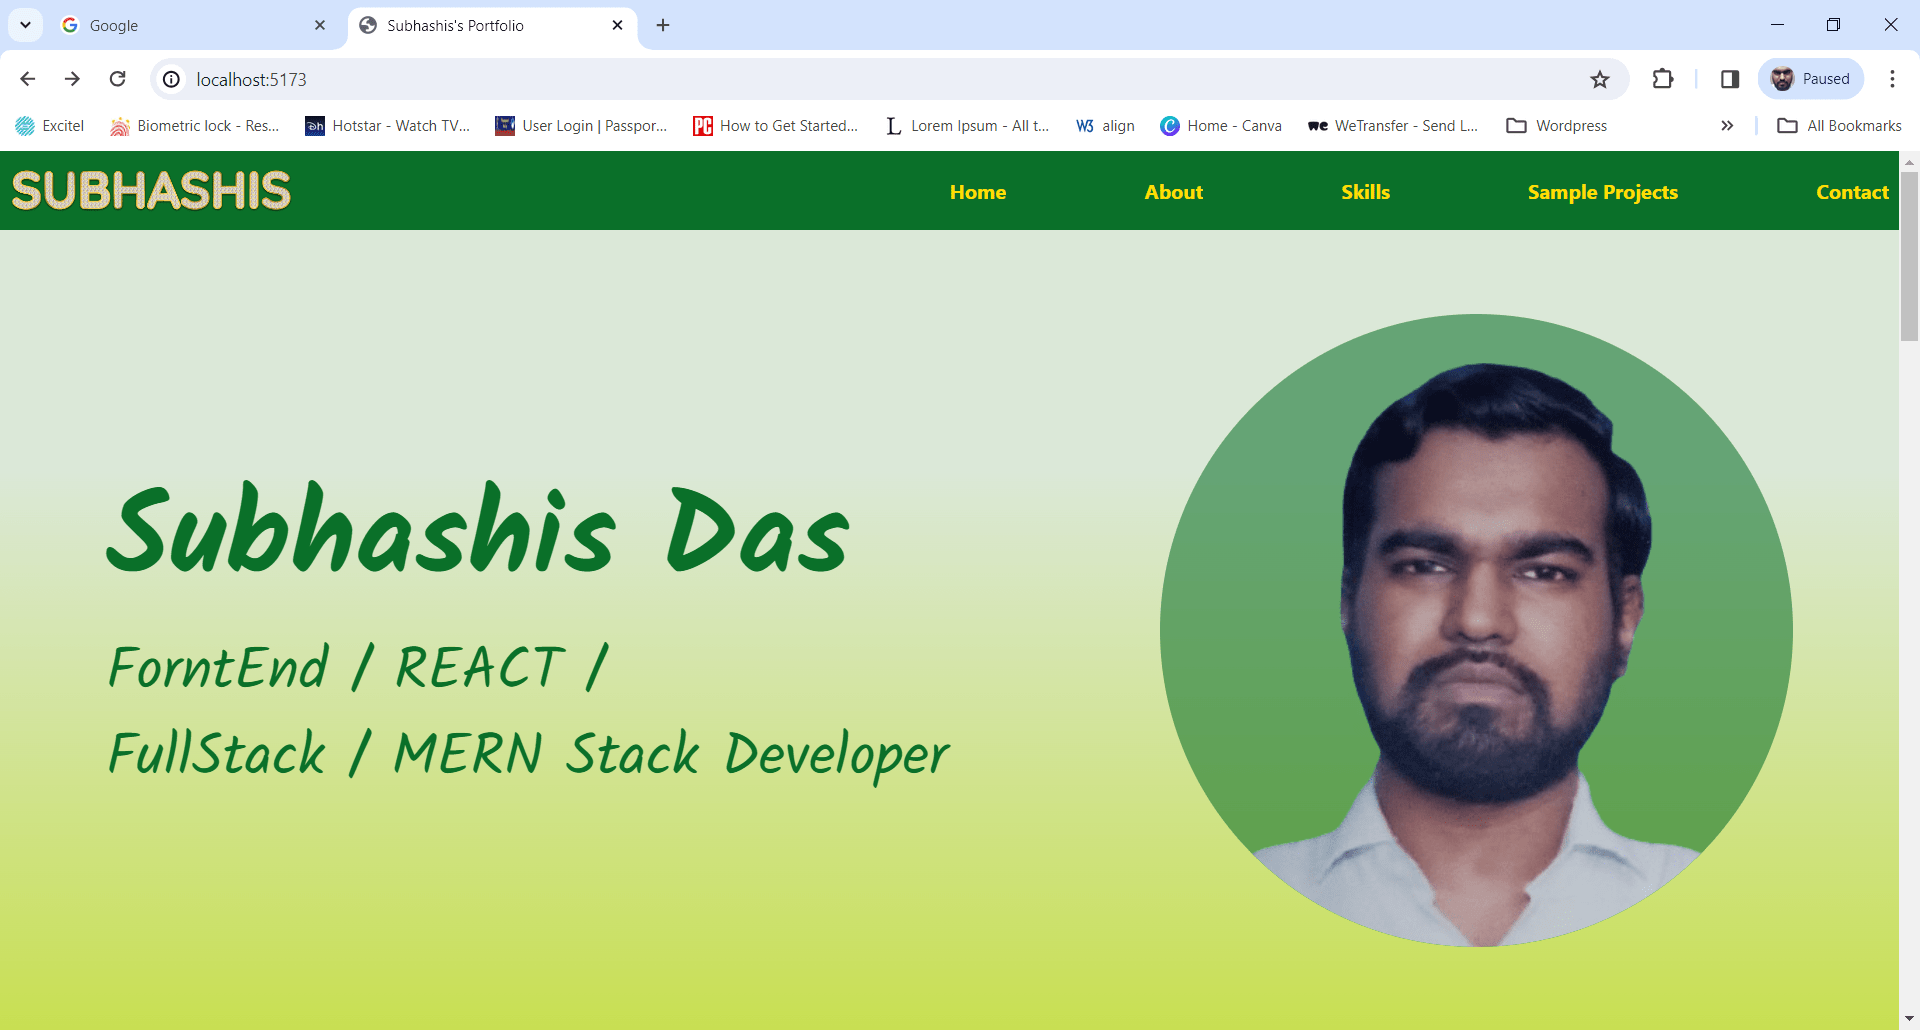
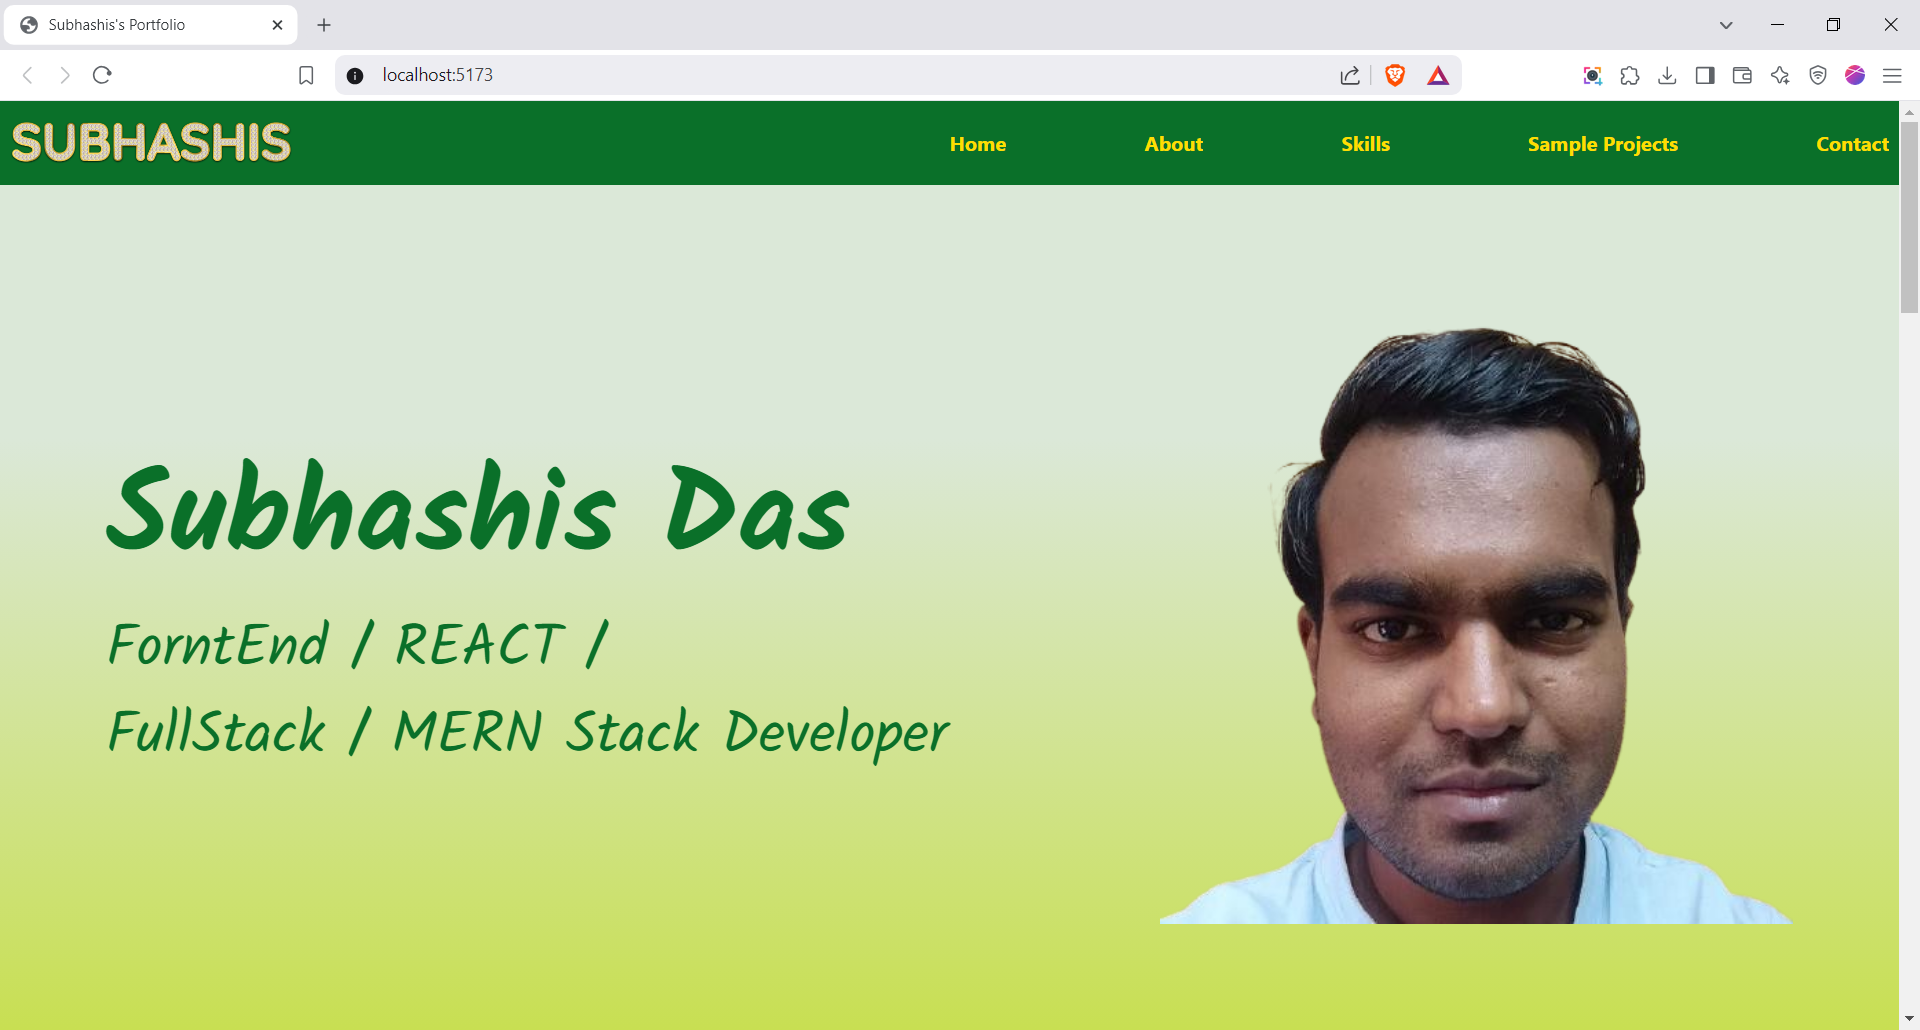
Make some changes
Make some changes on link, my image and about section

diff --git a/src/components/aboutme.jsx b/src/components/aboutme.jsx
@@ -7,49 +7,6 @@ function aboutme() {
       <div className='flex justify-center items-center portrait:px-4 lg:portrait:px-0'>
         <div className="py-2 relative before:absolute before:inset-0 before:ml-5 before:-translate-x-px md:before:ml-[8.75rem] md:before:translate-x-0 before:h-full before:w-0.5 before:bg-gradient-to-b before:from-[#0A7029] before:via-[#0A7029] before:to-[#0A7029]">
 
-        <div className="relative">
-            <div className="md:flex items-center md:space-x-4 mb-3">
-              <div className="flex items-center space-x-4 md:space-x-2 md:space-x-reverse">
-
-                <div className="flex items-center justify-center w-10 h-10 rounded-full bg-[#DBE8D8] shadow md:order-1">
-                
-                  <svg className="fill-[#0A7029]" xmlns="http://www.w3.org/2000/svg" width="16" height="16">
-                    <path d="M8 0a8 8 0 1 0 8 8 8.009 8.009 0 0 0-8-8Zm0 12a4 4 0 1 1 0-8 4 4 0 0 1 0 8Z" />
-                  </svg>
-                </div>
-
-                <time className="font-[kalam] font-regular text-right text-2xl text-[#0A7029] md:w-28">Currently</time>
-              </div>
-
-              <div className="font-[kalam] font-light text-[#0A7029] ml-14 text-xl underline">I am looking for a new opportunity as well as new project as a freelancer.
-              </div>
-            </div>
-
-          </div>
-
-          <div className="relative">
-            <div className="md:flex items-center md:space-x-4 mb-3">
-              <div className="flex items-center space-x-4 md:space-x-2 md:space-x-reverse">
-
-                <div className="flex items-center justify-center w-10 h-10 rounded-full bg-[#DBE8D8] shadow md:order-1">
-                  
-                  <svg className="fill-[#0A7029]" xmlns="http://www.w3.org/2000/svg" width="16" height="16">
-                    <path d="M8 0a8 8 0 1 0 8 8 8.009 8.009 0 0 0-8-8Zm0 12a4 4 0 1 1 0-8 4 4 0 0 1 0 8Z" />
-                  </svg>
-                </div>
-
-                <time className="font-[kalam] font-regular text-right text-2xl text-[#0A7029] md:w-28">2023</time>
-              </div>
-
-              <div className="font-[kalam] font-light text-[#0A7029] ml-14 text-xl">I joined NullClass as an <span className='font-bold'>Intern for 1 Month.</span><br />
-                <a href="https://drive.google.com/file/d/1RYmVUmaYn2ZY42Svyab03cMeR9Tr9niQ/view?usp=sharing" className='font-bold linkBlinking' target='_blank'>Click Here for Letter of Recommendation</a>
-                <br />
-                <a href="https://nullclass.com/wp-content/uploads/2023/08/Subhashis-Das-3.png" className='font-bold linkBlinking' target='_blank'>Click Here for Certificate</a>
-              </div>
-            </div>
-
-          </div>
-
           <div className="relative">
             <div className="md:flex items-center md:space-x-4 mb-3">
               <div className="flex items-center space-x-4 md:space-x-2 md:space-x-reverse">
@@ -103,7 +60,7 @@ function aboutme() {
                 <time className="font-[kalam] font-regular text-right text-2xl text-[#0A7029] md:w-28">2017</time>
               </div>
 
-              <div className="font-[kalam] font-light text-[#0A7029] ml-14 text-xl">During my last semester of MCA, I started my career as a Recuiter<br /><a href="https://www.linkedin.com/in/subhashis-das-295709145/" className='font-bold linkBlinking' target='_blank'>Click to Open my Linked profile</a></div>
+              <div className="font-[kalam] font-light text-[#0A7029] ml-14 text-xl">During my last semester of MCA, I started my career as a Recuiter<br /><a href="https://www.linkedin.com/in/subhashis-das-295709145/" className='font-bold linkBlinking' target='_blank'>Click to Open my LinkedIn profile</a></div>
             </div>
 
           </div>

diff --git a/src/components/skills.jsx b/src/components/skills.jsx
@@ -48,7 +48,31 @@ function skills() {
               <div className='capitalize portrait:text-[3vmax] landscape:text-[2vmax] font-bold text-center'>Responsive</div>
             </div>
           </div>
-          
+          {/*<div className='bg-[#DBE8D8] flex justify-between items-center landscape:w-1/3 md:landscape:w-1/4 xl:landscape:w-1/5 portrait:w-full portrait:w-1/2 portrait:w-1/3 rounded-3xl p-2 border border-[#0A7029] m-1'>
+            <div className='bg-[url("../logos/typescript.png")] w-1/3 aspect-square bg-contain bg-center bg-no-repeat'></div>
+            <div className='w-2/3'>
+              <div className='portrait:text-[3vmax] landscape:text-[2vmax] font-bold text-center'>TypeScript</div>
+            </div>
+          </div>
+
+          <div className='bg-[#DBE8D8] flex justify-between items-center landscape:w-1/3 md:landscape:w-1/4 xl:landscape:w-1/5 portrait:w-full portrait:w-1/2 portrait:w-1/3 rounded-3xl p-2 border border-[#0A7029] m-1'>
+            <div className='bg-[url("../logos/php.png")] w-1/3 aspect-square bg-contain bg-center bg-no-repeat'></div>
+            <div className='w-2/3'>
+              <div className='uppercase portrait:text-[3vmax] landscape:text-[2vmax] font-bold text-center'>php</div>
+            </div>
+          </div>
+          <div className='bg-[#DBE8D8] flex justify-between items-center landscape:w-1/3 md:landscape:w-1/4 xl:landscape:w-1/5 portrait:w-full portrait:w-1/2 portrait:w-1/3 rounded-3xl p-2 border border-[#0A7029] m-1'>
+            <div className='bg-[url("../logos/MySQL.png")] w-1/3 aspect-square bg-contain bg-center bg-no-repeat'></div>
+            <div className='w-2/3'>
+              <div className='portrait:text-[3vmax] landscape:text-[2vmax] font-bold text-center'>MySQL</div>
+            </div>
+          </div>
+          <div className='bg-[#DBE8D8] flex justify-between items-center landscape:w-1/3 md:landscape:w-1/4 xl:landscape:w-1/5 portrait:w-full portrait:w-1/2 portrait:w-1/3 rounded-3xl p-2 border border-[#0A7029] m-1'>
+            <div className='bg-[url("../logos/wordpress.png")] w-1/3 aspect-square bg-contain bg-center bg-no-repeat'></div>
+            <div className='w-2/3'>
+              <div className='capitalize portrait:text-[3vmax] landscape:text-[2vmax] font-bold text-center'>wordpress</div>
+            </div>
+  </div>*/}
           <div className='bg-[#DBE8D8] flex justify-between items-center landscape:w-1/3 md:landscape:w-1/4 xl:landscape:w-1/5 portrait:w-full portrait:w-1/2 portrait:w-1/3 rounded-3xl p-2 border border-[#0A7029] m-1'>
             <div className='bg-[url("../logos/github_logo.png")] w-1/3 aspect-square bg-contain bg-center bg-no-repeat'></div>
             <div className='w-2/3'>

diff --git a/src/components/projectDetails.jsx b/src/components/projectDetails.jsx
@@ -12,7 +12,7 @@ const projectDetails = [
         key:'2',
         img:'project2.png',
         title:'Food Delivery Website',
-        link:'https://subhashisfooddelivery.netlify.app',
+        link:'https://github.com/subhdas1993/fooddeliverywebsite',
         desc:['I developed a food delivery web application using the MERN stack. ', 'The application allows customers to register and login, browse menus, add items to their cart, and checkout securely. ','Customers can quickly create an account, login, and view their order history. ',' The application also includes features such as quantity and variety selection, with all orders being listed in the order section. '],
         tech:'React.js, MongoDB, Node.js, Express.js',
         npm:'axios, react-bootstrap, react-router bootstrap, react-router-dom, redux, redux-thunk, dotenv, mongoose, nodemon(not used in deployed version), router, uuid'

diff --git a/src/components/details.jsx b/src/components/details.jsx
@@ -9,7 +9,7 @@ function details() {
       </div>
       <div className='bg-transparent landscape:w-1/3 portrait:w-2/3 aspect-square overflow-hidden relative'>
         {/* bg-[#0A702990] rounded-full*/}
-        <div className=' bg-[url("../mypics.png")] bg-top bg-cover bg-no-repeat w-full h-full scale-100 hover:scale-110 transition-all duration-300 ease-linear'>
+        <div className=' bg-[url("../subhashis_das_image.png")] bg-top bg-cover bg-no-repeat w-full h-full scale-100 hover:scale-110 transition-all duration-300 ease-linear'>
           {/* rounded-full */}
         </div>
       </div>
